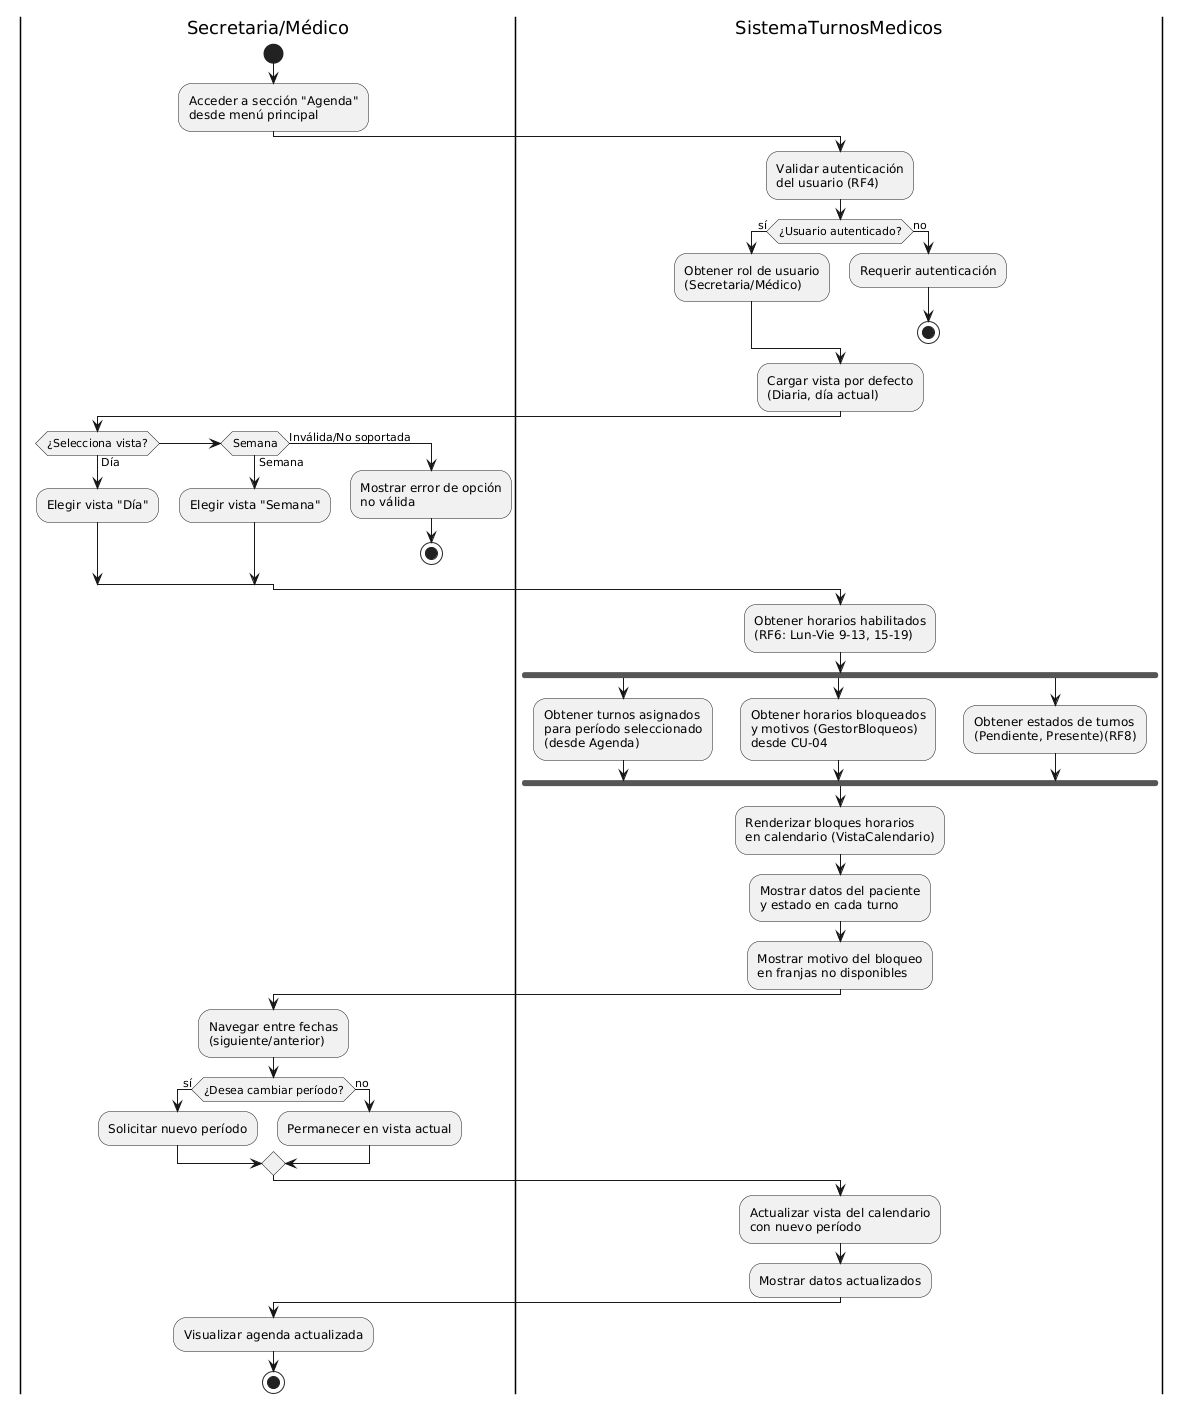
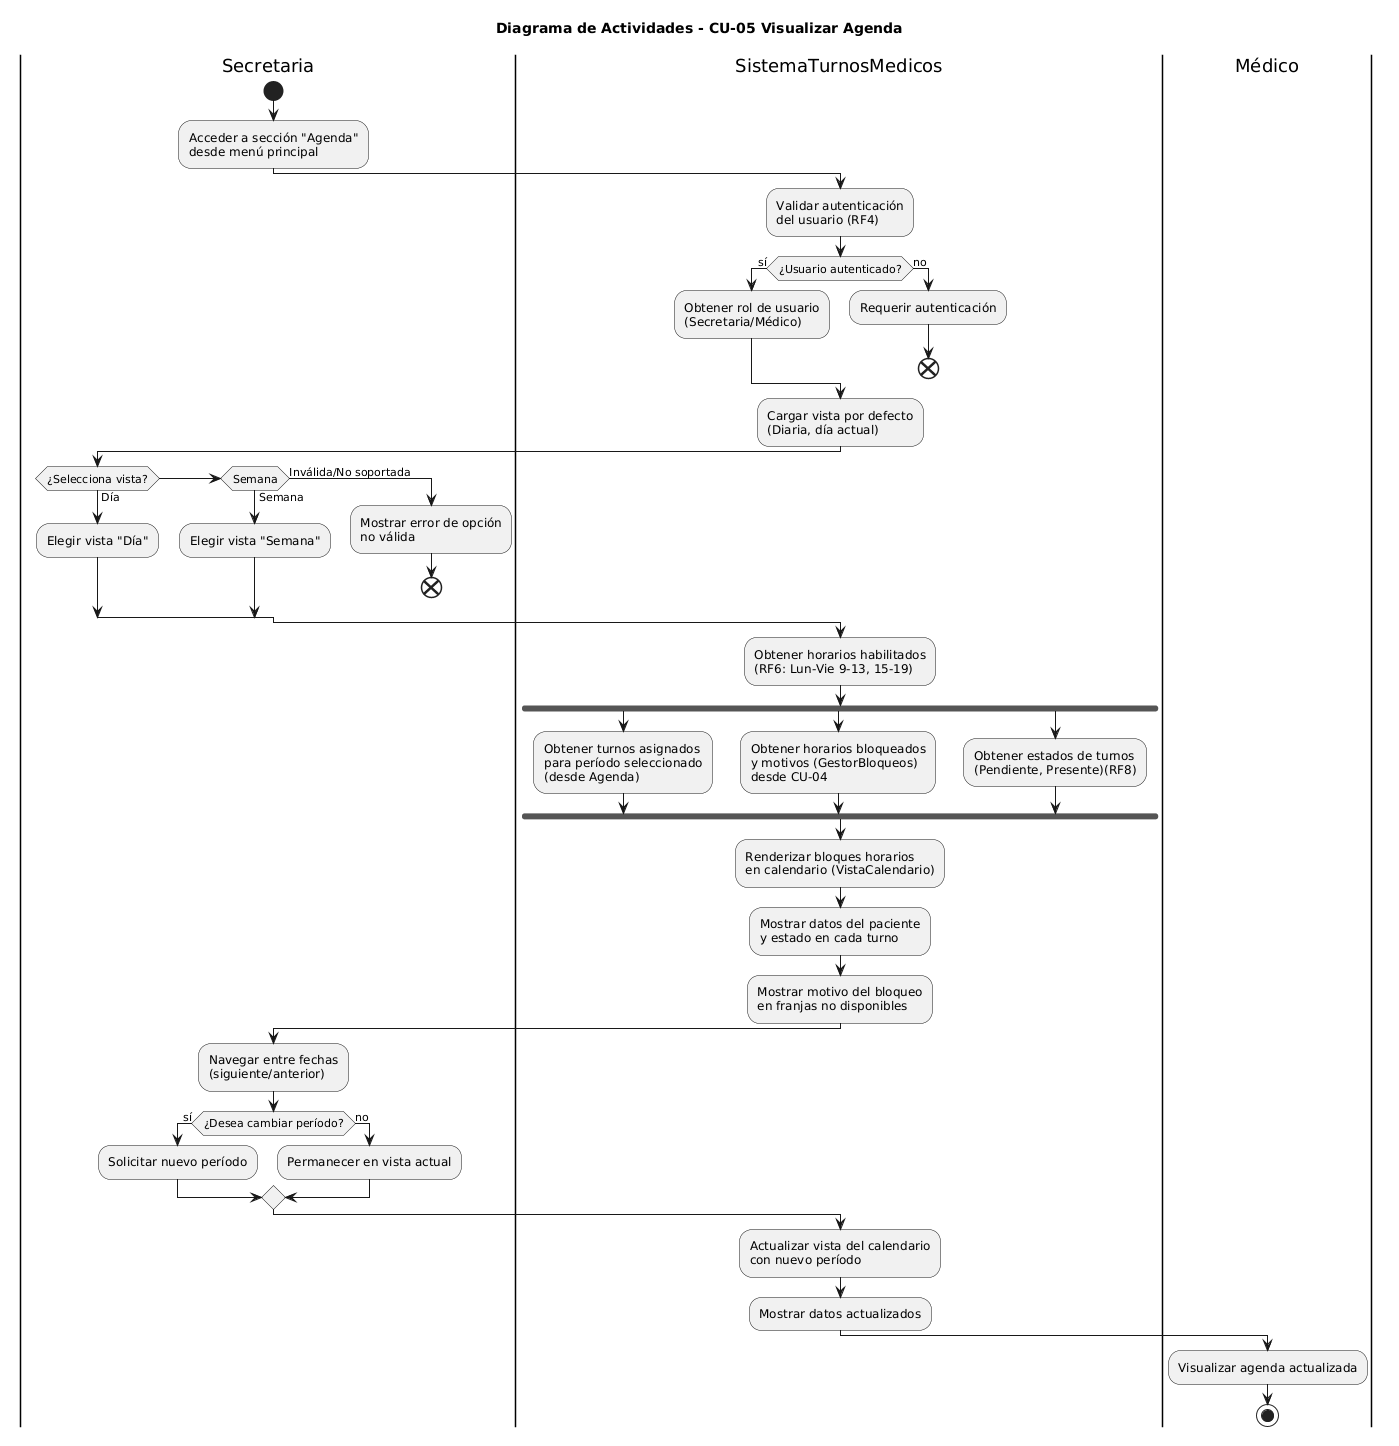
archivos modificados

diff --git a/diagramas/04-diagramas-actividades/diagramas_de_actividades.md b/diagramas/04-diagramas-actividades/diagramas_de_actividades.md
@@ -5,7 +5,3 @@
 - [Diagrama de actividad - Reprogramar Turno](04-actividad-reprogramar-turno-03.png)
 - [Diagrama de actividad - Bloquear Horarios](04-actividad-bloquear-horarios-04.png)
 - [Diagrama de actividad - Visualizar Agenda](04-actividad-visualizar-agenda-05.png)
-
-
-
-